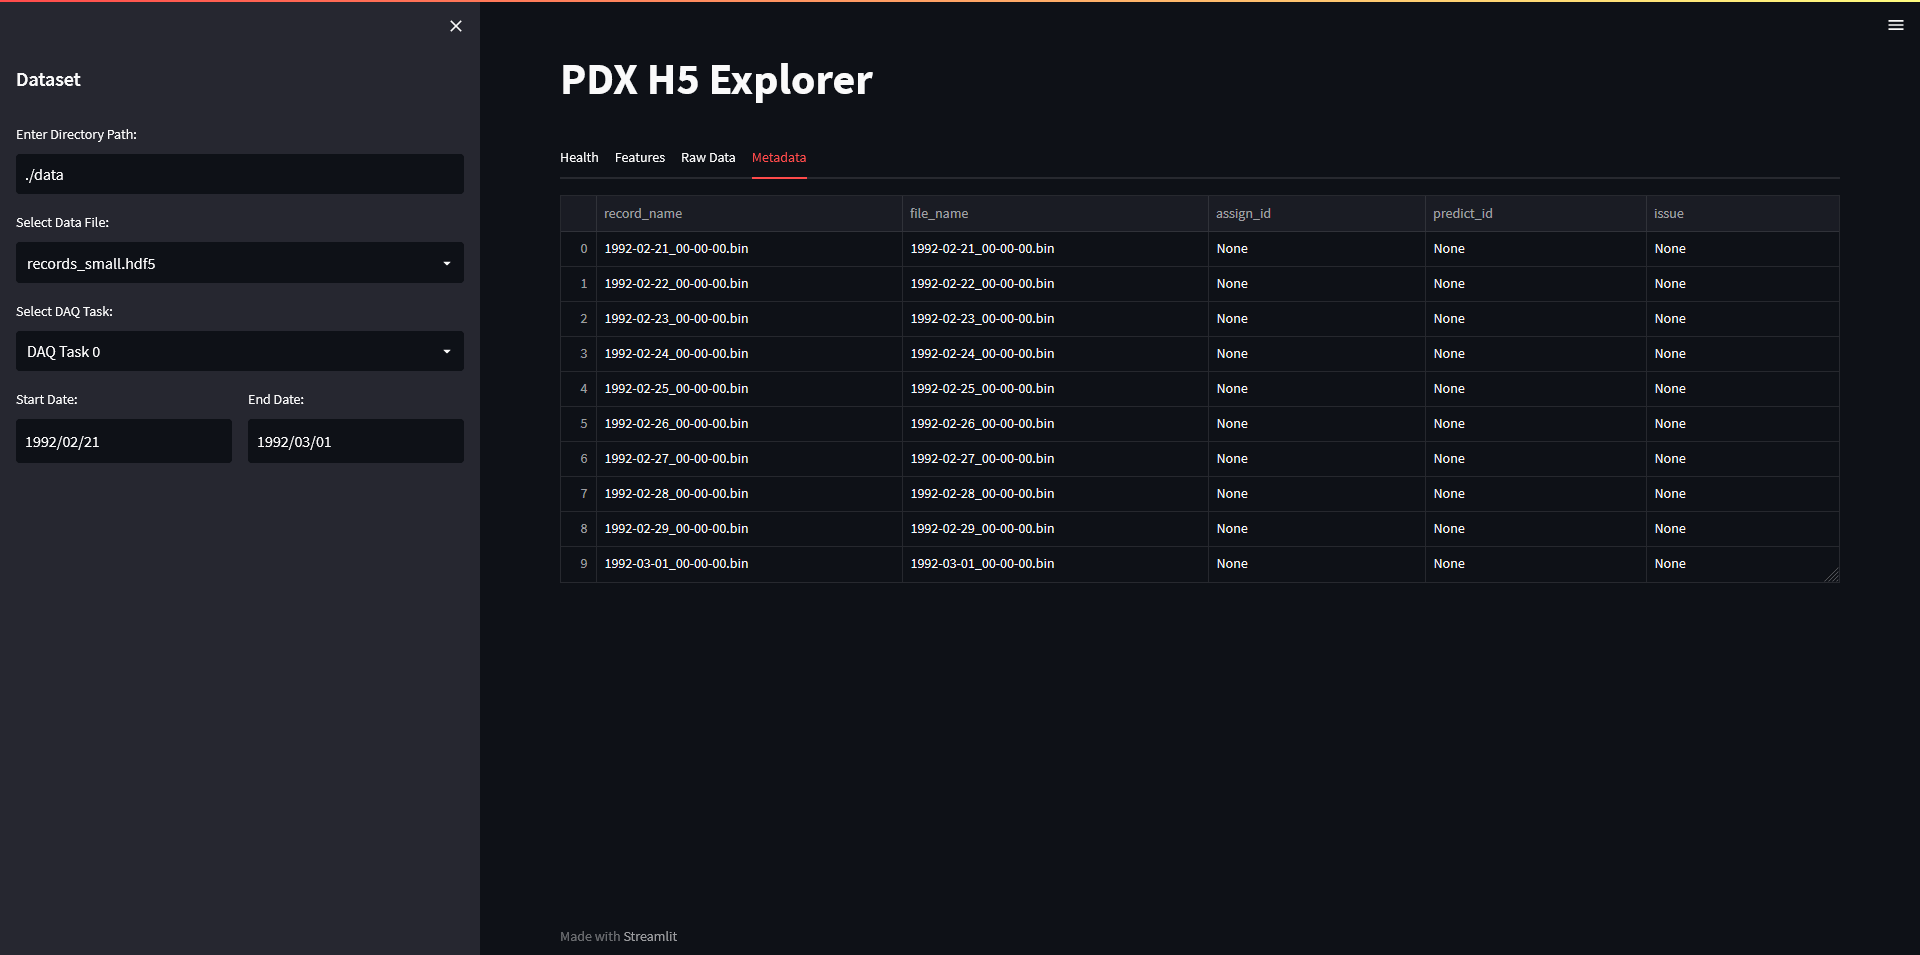
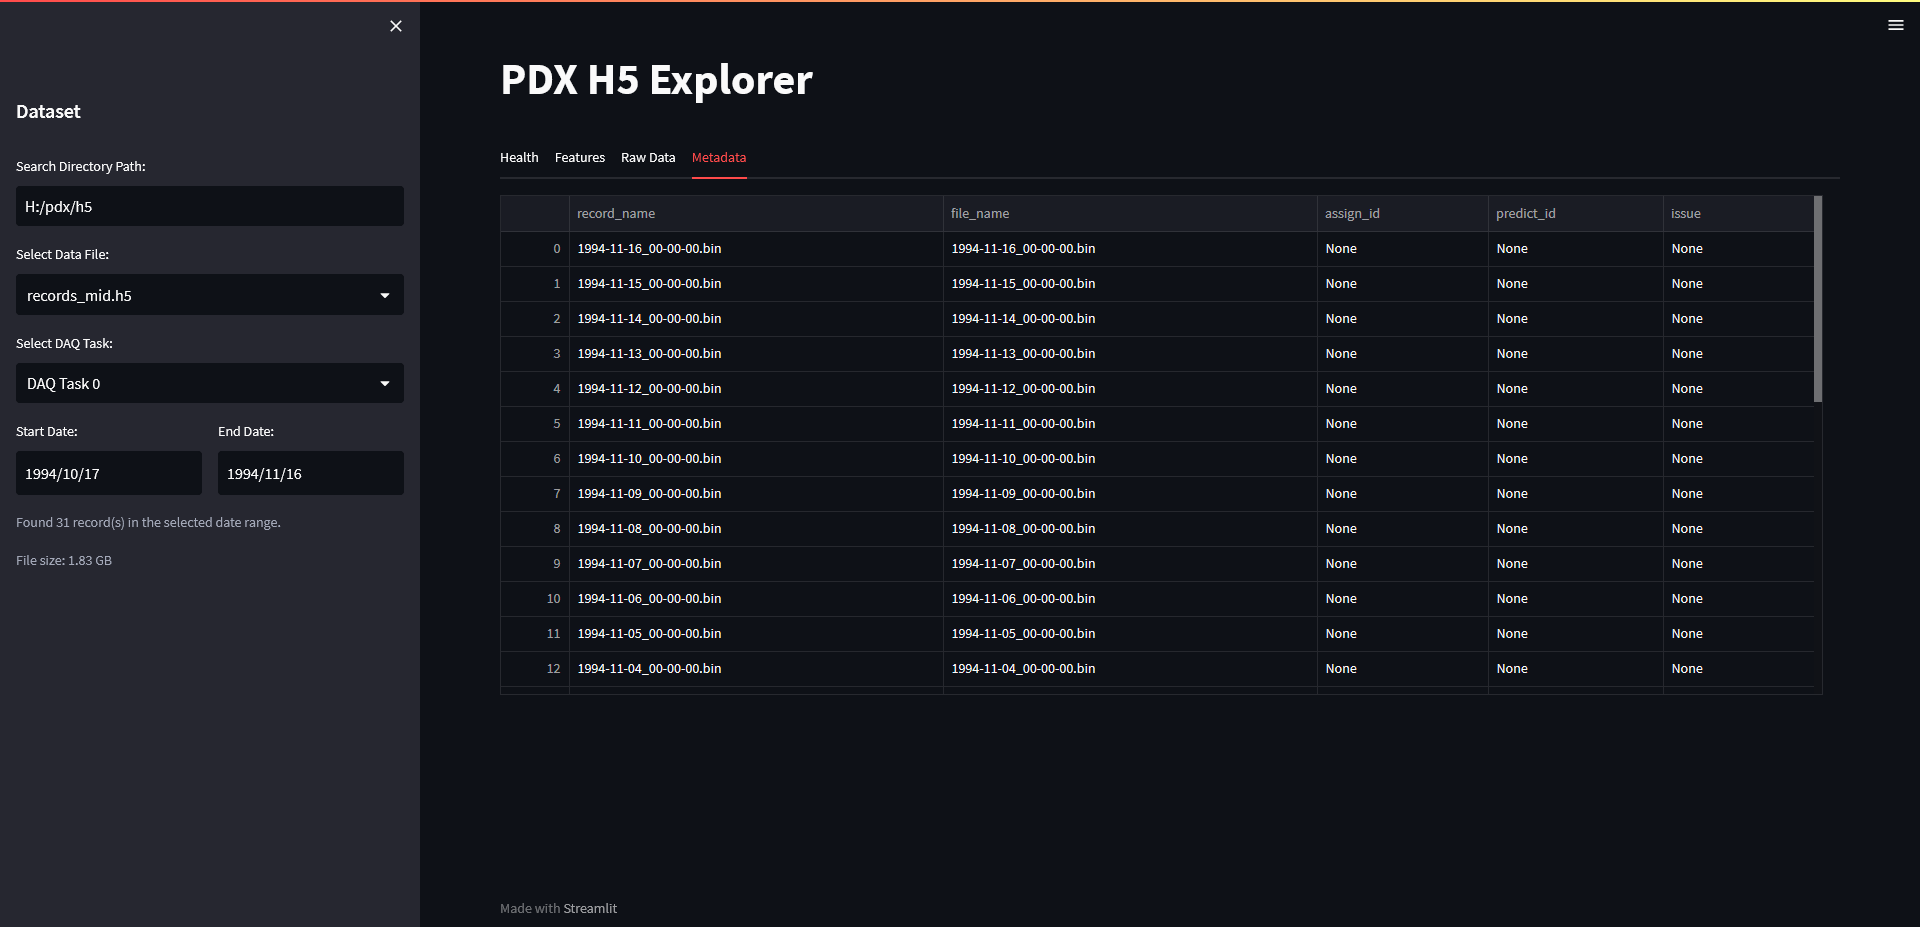
docs(readme): update readme and screenshots

diff --git a/README.md b/README.md
@@ -2,21 +2,21 @@
 A tool to visualize data from HDF5/H5 data files that adhere to the PDX data structure, built using Streamlit.
 
 ## Screenshots
-|                                      |                                       |
-| :----------------------------------: | :-----------------------------------: |
-| ![](./screenshots/health_dark_1.png) | ![](./screenshots/health_light_1.png) |
-|    ![](./screenshots/rawdata.png)    | ![](./screenshots/features_chart.png) |
-|   ![](./screenshots/metadata.png)    | ![](./screenshots/features_table.png) |
+|                                    |                                       |
+| :--------------------------------: | :-----------------------------------: |
+| ![](./screenshots/health_dark.png) |  ![](./screenshots/health_light.png)  |
+|   ![](./screenshots/rawdata.png)   | ![](./screenshots/features_chart.png) |
+|  ![](./screenshots/metadata.png)   | ![](./screenshots/features_table.png) |
 
 
 
 ## Features
-- Data exploration of data tasks for a valid date range within a selected H5 file
+- Data exploration of data tasks for a PDX-compatible H5 file
 - Health Data:
   - Chart health components together or in separate charts
   - View thresholds on charts
 - Feature Data:
-  - Chart feature(s) together or in separate charts
+  - Chart features together or in separate charts
   - View features in tabular form
 - Raw Data:
   - Chart data by record or by data variable
@@ -24,7 +24,7 @@ A tool to visualize data from HDF5/H5 data files that adhere to the PDX data str
 - Offers dark, light and custom themes
 
 ## Installation
-Install dependencies by running the `setup.ps1` script in a PowerShell terminal. This process will take a few minutes.
+Install dependencies by running the `setup.ps1` script in a PowerShell terminal. This process will take a few minutes (requires Python 3.10.x)
 
 ```shell
 ...\hdf5_explorer> .\setup.ps1
